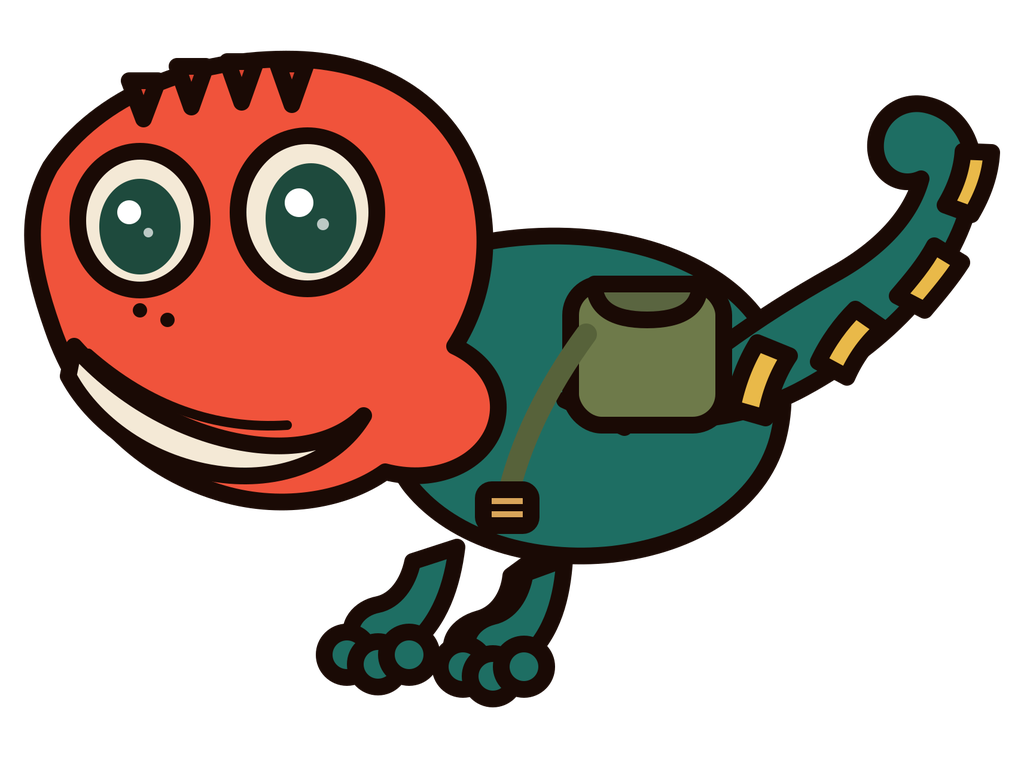
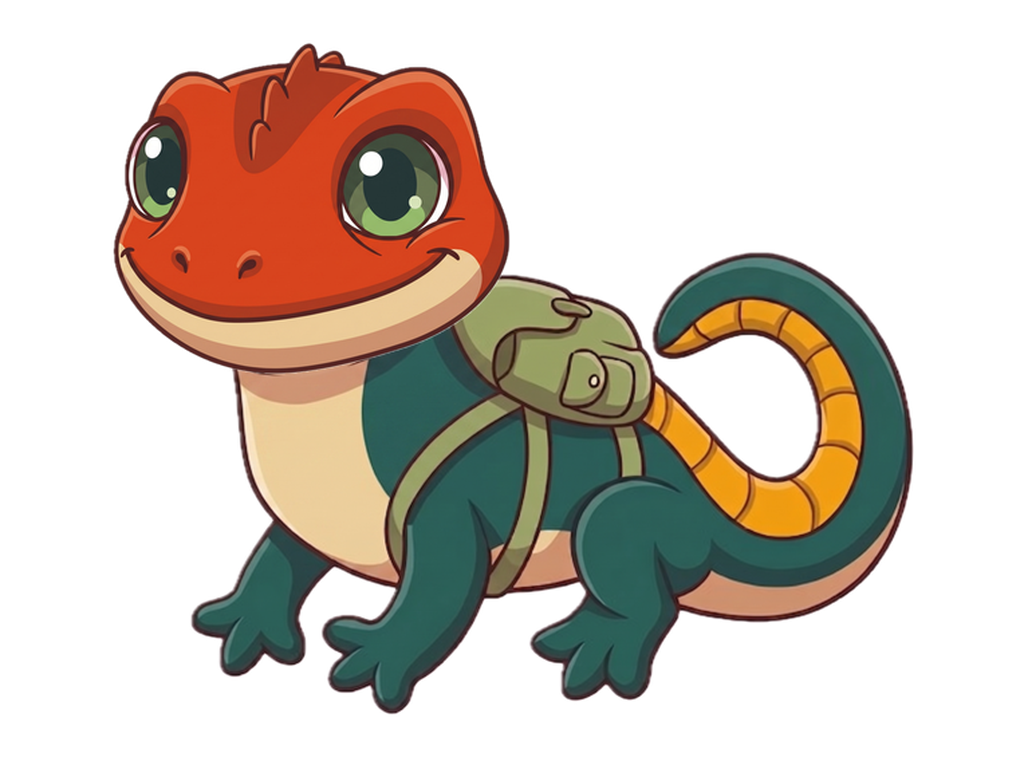
fix(mascotte): remplace le rig corps/tête par une version de meilleure qualité + repositionne Kili sur le bord haut des cartes-énigme
- kili.png/kili_head.png remplacés : composite tête (fournie par
  l'utilisateur) + corps pré-découpé au cou, alignement pixel-parfait
  vérifié par composition, bien meilleur rendu que la version SVG
  dessinée à la main
- Carte-énigme (solo + duel) : Kili déplacé de la ligne inline (à côté
  du texte) vers le bord supérieur de la bulle, même traitement que le
  CTA GRIMPER (Stack + Positioned + IgnorePointer, top:-37)

diff --git a/lib/presentation/game/game_view.dart b/lib/presentation/game/game_view.dart
@@ -973,64 +973,71 @@ class _RiddleCard extends StatelessWidget {
     // Carte devinette — accent gauche (3pt) sur fond de bulle, couleurs pilotées
     // par le skin du pack (défaut = surfaceContainer / or / crème historiques).
     // Plus de bordure dorée pleine : la hiérarchie vient de l'accent + ombre.
-    return Container(
-      margin: const EdgeInsets.symmetric(horizontal: 16),
-      decoration: BoxDecoration(
-        borderRadius: BorderRadius.circular(AppSpacing.radiusMd),
-        boxShadow: <BoxShadow>[
-          BoxShadow(
-            color: Colors.black.withValues(alpha: 0.4),
-            blurRadius: 10,
-            offset: const Offset(0, 4),
+    return Stack(
+      clipBehavior: Clip.none,
+      alignment: Alignment.topCenter,
+      children: <Widget>[
+        Container(
+          margin: const EdgeInsets.symmetric(horizontal: 16),
+          decoration: BoxDecoration(
+            borderRadius: BorderRadius.circular(AppSpacing.radiusMd),
+            boxShadow: <BoxShadow>[
+              BoxShadow(
+                color: Colors.black.withValues(alpha: 0.4),
+                blurRadius: 10,
+                offset: const Offset(0, 4),
+              ),
+            ],
           ),
-        ],
-      ),
-      child: ClipRRect(
-        borderRadius: BorderRadius.circular(AppSpacing.radiusMd),
-        child: ColoredBox(
-          color: theme.bubbleBackground,
-          child: IntrinsicHeight(
-            child: Row(
-              crossAxisAlignment: CrossAxisAlignment.stretch,
-              children: <Widget>[
-                // Filet d'accent pleine hauteur (couleur du skin).
-                Container(width: 3, color: theme.bubbleAccent),
-                Expanded(
-                  child: Padding(
-                    padding: const EdgeInsets.fromLTRB(13, 16, 18, 16),
-                    child: Row(
-                      crossAxisAlignment: CrossAxisAlignment.start,
-                      children: <Widget>[
-                        // Kili « peek » — pattes agrippées à une rampe, tête
-                        // qui dépasse pour lire l'énoncé avec le joueur.
-                        // Crop large (ratio ~1.9:1) : largeur > hauteur.
-                        Image.asset(
-                          AppAssets.kiliPeek,
-                          width: 66,
-                          height: 40,
-                          fit: BoxFit.contain,
-                        ),
-                        const SizedBox(width: 12),
-                        // Énoncé — 22pt, héros culturel de l'écran.
-                        Expanded(
-                          child: Text(
-                            riddle,
-                            style: AppTypography.bodyMd.copyWith(
-                              fontSize: 22,
-                              height: 1.35,
-                              color: theme.bubbleText,
-                            ),
+          child: ClipRRect(
+            borderRadius: BorderRadius.circular(AppSpacing.radiusMd),
+            child: ColoredBox(
+              color: theme.bubbleBackground,
+              child: IntrinsicHeight(
+                child: Row(
+                  crossAxisAlignment: CrossAxisAlignment.stretch,
+                  children: <Widget>[
+                    // Filet d'accent pleine hauteur (couleur du skin).
+                    Container(width: 3, color: theme.bubbleAccent),
+                    Expanded(
+                      child: Padding(
+                        padding: const EdgeInsets.fromLTRB(16, 28, 18, 16),
+                        // Énoncé — 22pt, héros culturel de l'écran. Padding
+                        // haut majoré pour laisser respirer Kili posé sur
+                        // le bord supérieur.
+                        child: Text(
+                          riddle,
+                          style: AppTypography.bodyMd.copyWith(
+                            fontSize: 22,
+                            height: 1.35,
+                            color: theme.bubbleText,
                           ),
                         ),
-                      ],
+                      ),
                     ),
-                  ),
+                  ],
                 ),
-              ],
+              ),
             ),
           ),
         ),
-      ),
+        // Kili « peek » — à cheval sur le bord supérieur de la bulle, comme
+        // s'il grimpait pour lire l'énoncé avec le joueur. `top: -37` cale
+        // la bordure de la rampe (dans le PNG source) sur le bord réel de la
+        // carte (même calcul que le CTA GRIMPER). `IgnorePointer` : purement
+        // décoratif.
+        Positioned(
+          top: -37,
+          child: IgnorePointer(
+            child: Image.asset(
+              AppAssets.kiliPeek,
+              width: 84,
+              height: 43,
+              fit: BoxFit.contain,
+            ),
+          ),
+        ),
+      ],
     );
   }
 }

diff --git a/lib/presentation/duel/duel_play_view.dart b/lib/presentation/duel/duel_play_view.dart
@@ -552,8 +552,8 @@ class _ProgressRow extends ConsumerWidget {
   }
 }
 
-/// Carte devinette du duel — meme style que le mode solo (`game_view.dart`)
-/// avec l'avatar du griot a gauche et le texte en bodyMd non-italique.
+/// Carte devinette du duel — meme style que le mode solo (`game_view.dart`),
+/// Kili posé sur le bord inférieur, texte en bodyMd non-italique.
 class _RiddleCard extends StatelessWidget {
   const _RiddleCard({required this.riddle});
 
@@ -562,60 +562,66 @@ class _RiddleCard extends StatelessWidget {
   @override
   Widget build(BuildContext context) {
     // Carte devinette à accent gauche or (cohérence avec le mode solo).
-    return Container(
-      margin: const EdgeInsets.symmetric(horizontal: 16),
-      decoration: BoxDecoration(
-        borderRadius: BorderRadius.circular(AppSpacing.radiusMd),
-        boxShadow: <BoxShadow>[
-          BoxShadow(
-            color: Colors.black.withValues(alpha: 0.4),
-            blurRadius: 10,
-            offset: const Offset(0, 4),
+    return Stack(
+      clipBehavior: Clip.none,
+      alignment: Alignment.topCenter,
+      children: <Widget>[
+        Container(
+          margin: const EdgeInsets.symmetric(horizontal: 16),
+          decoration: BoxDecoration(
+            borderRadius: BorderRadius.circular(AppSpacing.radiusMd),
+            boxShadow: <BoxShadow>[
+              BoxShadow(
+                color: Colors.black.withValues(alpha: 0.4),
+                blurRadius: 10,
+                offset: const Offset(0, 4),
+              ),
+            ],
           ),
-        ],
-      ),
-      child: ClipRRect(
-        borderRadius: BorderRadius.circular(AppSpacing.radiusMd),
-        child: ColoredBox(
-          color: AppColors.surfaceContainer,
-          child: IntrinsicHeight(
-            child: Row(
-              crossAxisAlignment: CrossAxisAlignment.stretch,
-              children: <Widget>[
-                Container(width: 3, color: AppColors.orJour),
-                Expanded(
-                  child: Padding(
-                    padding: const EdgeInsets.fromLTRB(13, 16, 16, 16),
-                    child: Row(
-                      children: <Widget>[
-                        // Kili « peek » — même traitement que la carte-énigme
-                        // en solo (crop large ~1.9:1).
-                        Image.asset(
-                          AppAssets.kiliPeek,
-                          width: 66,
-                          height: 40,
-                          fit: BoxFit.contain,
-                        ),
-                        const SizedBox(width: 12),
-                        Expanded(
-                          child: Text(
-                            riddle,
-                            style: AppTypography.bodyMd.copyWith(
-                              fontSize: 16,
-                              height: 1.45,
-                              color: AppColors.textePrimaire,
-                            ),
+          child: ClipRRect(
+            borderRadius: BorderRadius.circular(AppSpacing.radiusMd),
+            child: ColoredBox(
+              color: AppColors.surfaceContainer,
+              child: IntrinsicHeight(
+                child: Row(
+                  crossAxisAlignment: CrossAxisAlignment.stretch,
+                  children: <Widget>[
+                    Container(width: 3, color: AppColors.orJour),
+                    Expanded(
+                      child: Padding(
+                        padding: const EdgeInsets.fromLTRB(16, 28, 16, 16),
+                        // Padding haut majoré pour laisser respirer Kili posé
+                        // sur le bord (cf. `_RiddleCard` du mode solo).
+                        child: Text(
+                          riddle,
+                          style: AppTypography.bodyMd.copyWith(
+                            fontSize: 16,
+                            height: 1.45,
+                            color: AppColors.textePrimaire,
                           ),
                         ),
-                      ],
+                      ),
                     ),
-                  ),
+                  ],
                 ),
-              ],
+              ),
             ),
           ),
         ),
-      ),
+        // Kili « peek » — à cheval sur le bord supérieur, même traitement que
+        // la carte-énigme en solo (cf. `game_view.dart` `_RiddleCard`).
+        Positioned(
+          top: -37,
+          child: IgnorePointer(
+            child: Image.asset(
+              AppAssets.kiliPeek,
+              width: 84,
+              height: 43,
+              fit: BoxFit.contain,
+            ),
+          ),
+        ),
+      ],
     );
   }
 }
